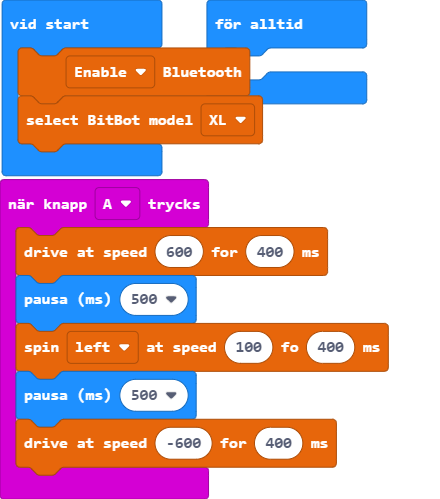
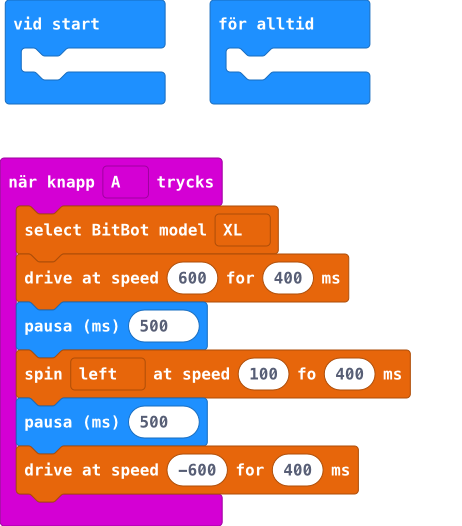
Update main.blocks, main.ts

diff --git a/main.ts b/main.ts
@@ -1,4 +1,5 @@
 input.onButtonPressed(Button.A, function () {
+    bitbot.select_model(BBModel.XL)
     bitbot.driveMilliseconds(600, 400)
     basic.pause(500)
     bitbot.driveTurnMilliseconds(BBRobotDirection.Left, 100, 400)
